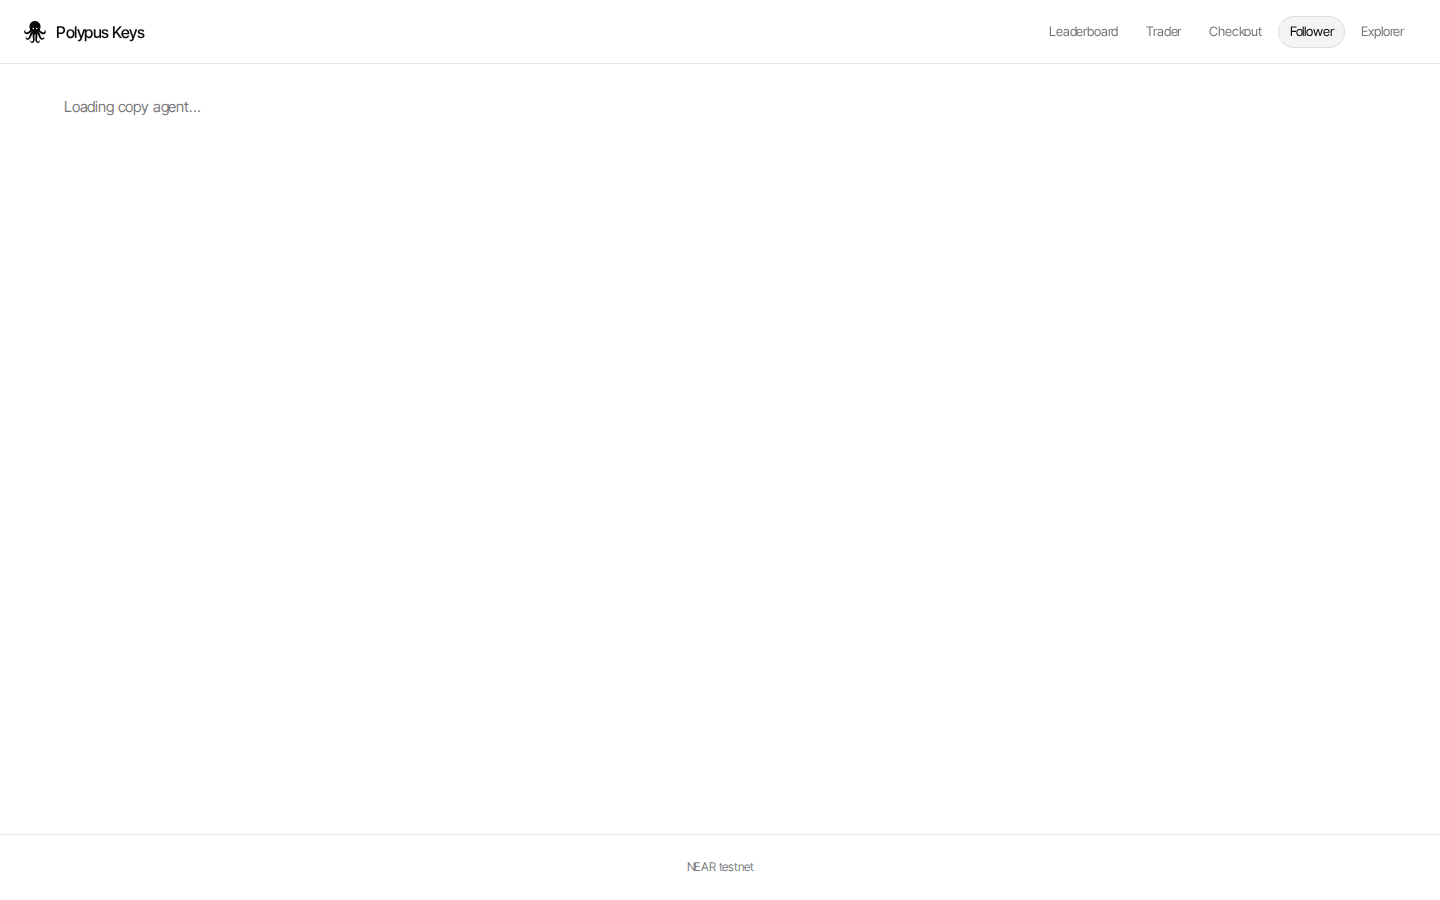
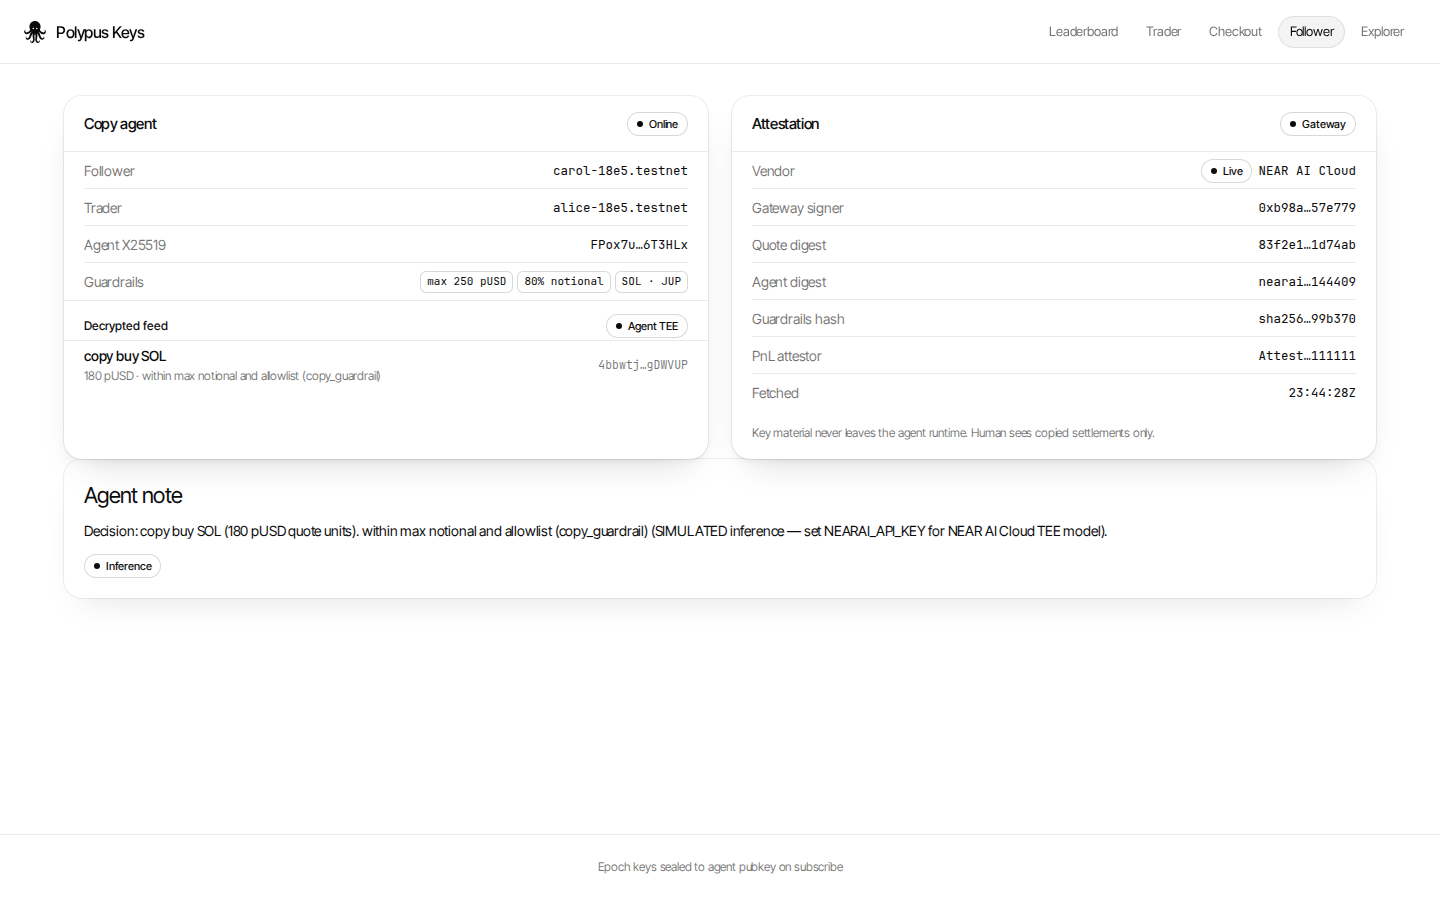
fix(keys-app): screenshot preview mode and RPC fetch fallbacks

diff --git a/apps/keys/src/main.ts b/apps/keys/src/main.ts
@@ -190,9 +190,9 @@ async function withTimeout<T>(p: Promise<T>, ms: number, fallback: T): Promise<T
 }
 
 async function renderFollower() {
-  app.innerHTML = shell("follower", `<p class="page-lead">Loading copy agent…</p>`, "NEAR testnet");
+  try {
   const subLive = wantLive ? await withTimeout(fetchSubscriptionLive(), 12_000, null) : null;
-  const snap = wantLive ? await withTimeout(loadFollowerSnapshot(), 4_000, null) : null;
+  const snap = wantLive ? await loadFollowerSnapshot() : null;
   const gateway = await withTimeout(fetchGatewaySlice(), 8_000, {
     ok: false,
     signingAddress: "",
@@ -260,6 +260,9 @@ async function renderFollower() {
 
   const body = `<div class="grid2 grid2--balanced">${agentCard}${attRows}</div>${explainPanel}`;
   app.innerHTML = shell("follower", body, "Epoch keys sealed to agent pubkey on subscribe");
+  } catch (e) {
+    app.innerHTML = shell("follower", `<p class="page-lead">Follower view error: ${String(e)}</p>`, "");
+  }
 }
 
 async function renderExplorer(id: string) {

diff --git a/apps/keys/src/data/followerLive.ts b/apps/keys/src/data/followerLive.ts
@@ -1,5 +1,6 @@
 import { viewCall } from "../near/registry.js";
 import { LIVE_FOLLOWER, LIVE_TRADER } from "./constants.js";
+import bundledSnapshot from "../../public/live/follower-snapshot.json";
 
 export type SubOnChain = {
   follower: string;
@@ -38,9 +39,9 @@ export async function fetchSubscriptionLive(
 export async function loadFollowerSnapshot(): Promise<FollowerSnapshot | null> {
   try {
     const res = await fetch(`${import.meta.env.BASE_URL}live/follower-snapshot.json`);
-    if (!res.ok) return null;
-    return (await res.json()) as FollowerSnapshot;
+    if (res.ok) return (await res.json()) as FollowerSnapshot;
   } catch {
-    return null;
+    /* use bundled copy */
   }
+  return bundledSnapshot as FollowerSnapshot;
 }

diff --git a/apps/keys/src/near/registry.ts b/apps/keys/src/near/registry.ts
@@ -3,6 +3,7 @@ import { REGISTRY_ID } from "../data/recorded.js";
 const RPC = import.meta.env.VITE_NEAR_RPC ?? "https://rpc.testnet.near.org";
 
 export async function viewCall<T>(method: string, args: Record<string, unknown>): Promise<T | null> {
+  try {
   const argsJson = JSON.stringify(args);
   const argsBase64 = btoa(String.fromCharCode(...new TextEncoder().encode(argsJson)));
   const body = {
@@ -23,6 +24,9 @@ export async function viewCall<T>(method: string, args: Record<string, unknown>)
   const text = new TextDecoder().decode(Uint8Array.from(json.result.result));
   try {
     return JSON.parse(text) as T;
+  } catch {
+    return null;
+  }
   } catch {
     return null;
   }
